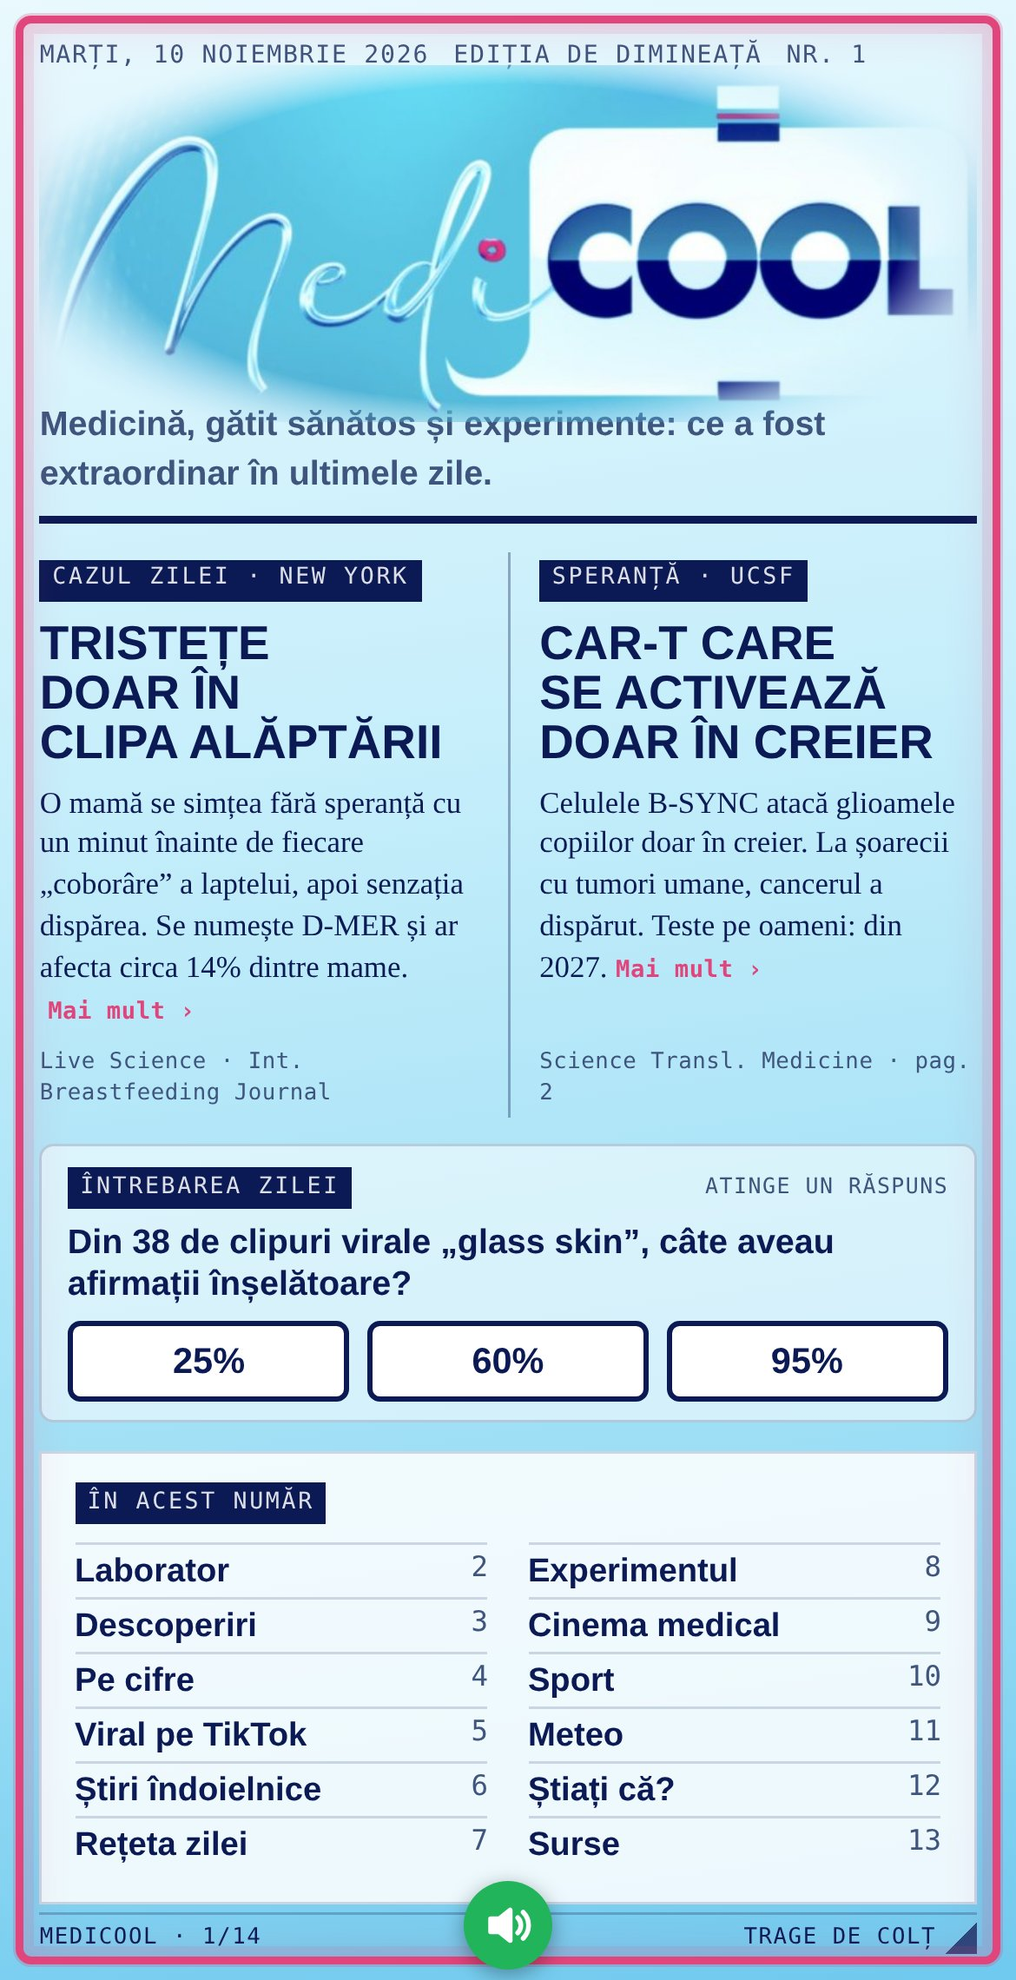
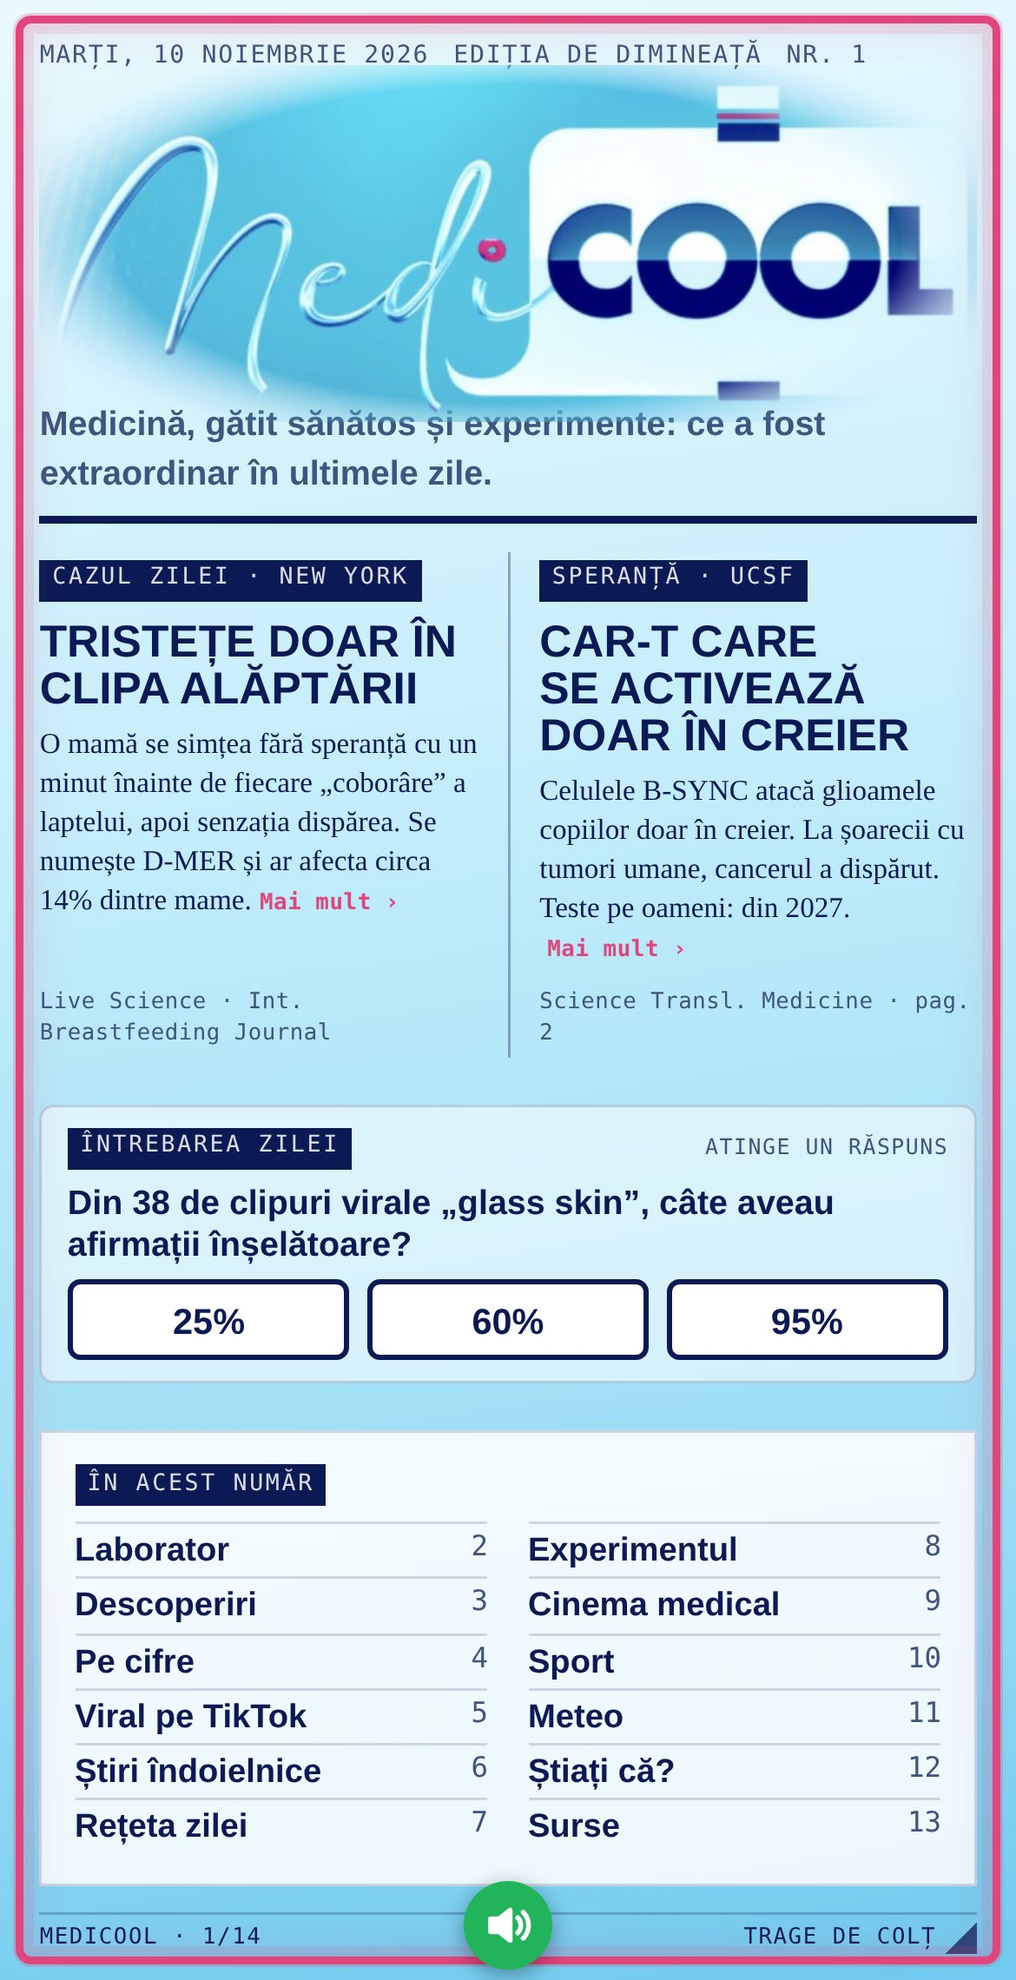
Pagini pline: text în plus din surse, fără spațiu gol jos
Claude-Session: https://claude.ai/code/session_01FzDV5b68UMWScboPR3TvHi

Changed region(s): [[0.0308, 0.3114, 0.9846, 0.9654], [0.5231, 0.7785, 0.9538, 0.9654]]

diff --git a/2026-11-10/ziar.html b/2026-11-10/ziar.html
@@ -24,7 +24,7 @@ body{background:#C6EEFB;color:var(--ink);font-family:var(--font-body);overflow:h
 #book{width:100%;height:100%}
 .page{background:linear-gradient(172deg,#E9F9FE 0%,#C6EEFB 38%,#97DCF4 78%,#6FC9EE 100%);font-size:var(--fs);line-height:1.42;overflow:hidden}
 .pg{height:100%;display:flex;flex-direction:column;gap:.75em;padding:1.1em 1.1em .7em}
-.pg>.grow{flex:1;min-height:0;display:flex;flex-direction:column;gap:.75em}
+.pg>.grow{flex:1;min-height:0;display:flex;flex-direction:column;gap:.75em;justify-content:space-between}
 
 /* masthead */
 .mast{border-bottom:3px solid var(--ink);padding-bottom:.5em;display:flex;flex-direction:column;gap:.35em}
@@ -144,8 +144,8 @@ p{margin:0}
 .frontcols{display:grid;grid-template-columns:1fr 1fr;gap:0;flex:none}
 .frontcols .fcol{display:flex;flex-direction:column;gap:.45em;padding:.2em .8em .2em 0}
 .frontcols .fcol+.fcol{padding:.2em 0 .2em .8em;border-left:1px solid rgba(11,26,85,.35)}
-.frontcols h2{font-family:var(--font-display);font-stretch:80%;font-weight:800;font-size:1.32em;line-height:1.05;margin:0;color:var(--ink);text-transform:uppercase}
-.frontcols p{font-size:.84em;line-height:1.36;margin:0;color:var(--ink)}
+.frontcols h2{font-family:var(--font-display);font-stretch:80%;font-weight:800;font-size:1.24em;line-height:1.05;margin:0;color:var(--ink);text-transform:uppercase}
+.frontcols p{font-size:.8em;line-height:1.36;margin:0;color:var(--ink)}
 .frontcols .src{margin-top:auto;color:var(--muted)}
 .index li{cursor:pointer}.index li *{pointer-events:none}
 .page.cover:after{content:"";position:absolute;inset:6px;border:3px solid #E0457B;border-radius:6px;box-shadow:0 0 0 1px rgba(224,69,123,.25),inset 0 0 0 4px rgba(224,69,123,.12),inset 0 0 18px rgba(224,69,123,.18);pointer-events:none;z-index:5}
@@ -265,15 +265,15 @@ subiecte_recente: 2026-11-09 copil de piatră Somaliland; gel smalț Nottingham;
   <div class="grow">
     <article class="tile mark">
       <div class="hd"><div><span class="kicker">Oncologie pediatrică · UCSF</span><h2>Celule CAR-T care se „trezesc” doar în creier</h2></div><a class="vthumb" href="https://www.youtube.com/watch?v=NZj2Y4o8jog" target="_blank" rel="noopener"><span class="play"></span><span class="plat">▶ UCSF</span></a></div>
-      <p>Glioamele difuze de linie mediană ucid copiii de obicei în mai puțin de un an. Celulele B-SYNC recunosc o proteină din creier și abia acolo își activează arma contra tumorii. La două modele de șoareci cu tumori umane, cancerul a dispărut la toate animalele.</p>
-      <p class="note" style="color:var(--mark-fg)">Doar pe șoareci. Primele teste pe oameni ar putea începe în aprilie 2027.<a class="more" href="https://www.sciencedaily.com/releases/2026/11/261104084009.htm" target="_blank" rel="noopener">Mai mult ›</a></p>
+      <p>Glioamele difuze de linie mediană ucid copiii de obicei în mai puțin de un an. Celulele B-SYNC recunosc o proteină din creier și abia acolo își activează arma contra tumorii. La două modele de șoareci cu tumori umane, cancerul a dispărut la toate animalele. După șapte săptămâni, șoarecii tratați au respins o nouă doză de celule canceroase.</p>
+      <p class="note" style="color:var(--mark-fg)">Doar pe șoareci. Echipa lui Hideho Okada și Wendell Lim pregătește primele teste pe oameni, din aprilie 2027, cu celulele T ale pacienților.<a class="more" href="https://www.sciencedaily.com/releases/2026/11/261104084009.htm" target="_blank" rel="noopener">Mai mult ›</a></p>
       <span class="src">ScienceDaily · Science Translational Medicine</span>
     </article>
     <article class="tile">
       <span class="kicker">Chimie · RIKEN, Japonia</span>
       <h2>Tumora își fabrică singură medicamentul</h2>
-      <p>Celulele canceroase eliberează mult monoxid de carbon. Un catalizator cu paladiu, ascuns într-o proteină din sânge, folosește acest gaz ca să producă în interiorul lor un compus anticancer. În celulele sănătoase, reacția nu a avut loc.</p>
-      <p class="note">Testat doar pe celule în laborator, 48 de ore. Urmează studiile pe animale.<a class="more" href="https://www.sciencedaily.com/releases/2026/11/261101010552.htm" target="_blank" rel="noopener">Mai mult ›</a></p>
+      <p>Celulele canceroase eliberează mult monoxid de carbon. Un catalizator cu paladiu, ascuns într-o proteină din sânge, folosește acest gaz ca să producă în interiorul lor un compus anticancer. În celulele sănătoase, reacția nu a avut loc. Compusul format, fenantridinona, are o variantă toxică folosită deja în unele medicamente anticancer. În sânge, monoxidul de carbon e legat de hemoglobină, așa că reacția nu pornește acolo.</p>
+      <p class="note">Testat doar pe celule în laborator, 48 de ore. Echipa lui Katsunori Tanaka trece acum la studii pe animale.<a class="more" href="https://www.sciencedaily.com/releases/2026/11/261101010552.htm" target="_blank" rel="noopener">Mai mult ›</a></p>
       <span class="src">ScienceDaily · Nature Communications</span>
     </article>
   </div>
@@ -303,12 +303,12 @@ subiecte_recente: 2026-11-09 copil de piatră Somaliland; gel smalț Nottingham;
       <div class="tile mark"><span class="kicker">Oase și creier</span><div class="stat">−24%</div><div class="statlabel">risc de demență la cei cu bifosfonați (ex. alendronat), față de alte medicamente pentru osteoporoză. 120.000 de vârstnici, Hong Kong. <a class="more" href="https://www.sciencedaily.com/releases/2026/11/261108233037.htm" target="_blank" rel="noopener">Mai mult ›</a></div><span class="src">Alzheimer's &amp; Dementia</span></div>
       <div class="tile teal"><span class="kicker">Testosteron</span><div class="stat">+18%</div><div class="statlabel">risc de deces prin cancer la bărbații cu cel mai scăzut testosteron. 26.000 de bărbați din 11 studii. <a class="more" href="https://www.sciencedaily.com/releases/2026/11/261104012301.htm" target="_blank" rel="noopener">Mai mult ›</a></div><span class="src">Lancet Healthy Longevity</span></div>
     </div>
-    <p class="note" style="color:var(--ink)">Ambele sunt <b>asocieri, nu dovezi</b>. Autorii spun clar: nu există dovezi că testosteronul luat suplimentar ar scădea riscul de cancer.</p>
+    <p class="note" style="color:var(--ink)">Ambele sunt <b>asocieri, nu dovezi</b>. Autorii spun clar: nu există dovezi că testosteronul luat suplimentar ar scădea riscul de cancer. La bifosfonați, cercetătorii din Hong Kong cer un studiu clinic înainte de orice recomandare.</p>
     <a class="vid sm" href="https://www.youtube.com/watch?v=GRxb6-CyPxM" target="_blank" rel="noopener"><span class="play"></span><span class="cap"><span class="plat">▶ YouTube · Mayo Clinic</span><br>Cum afectează testosteronul scăzut sănătatea bărbaților</span></a>
     <article class="tile">
       <span class="kicker">Copii · USC</span>
       <h2>Ultraprocesatele și „butonul” recompensei</h2>
-      <p style="font-size:.9em">La 46 de copii de 7–10 ani, cei care mâncau mai multe ultraprocesate aveau o reacție mai puternică a creierului la imagini cu mâncare. Reacția a prezis o creștere mai mare a grăsimii corporale într-un an. Studiu mic, observațional.<a class="more" href="https://www.sciencedaily.com/releases/2026/11/261101010549.htm" target="_blank" rel="noopener">Mai mult ›</a></p>
+      <p style="font-size:.9em">La 46 de copii de 7–10 ani, cei care mâncau mai multe ultraprocesate aveau o reacție mai puternică a creierului la imagini cu mâncare. Reacția a prezis o creștere mai mare a grăsimii corporale într-un an. Zona implicată e striatul dorsal, legat de recompensă și motivație. Toți copiii aveau greutate normală la început. Studiu mic, observațional; urmează unul în care se schimbă dieta.<a class="more" href="https://www.sciencedaily.com/releases/2026/11/261101010549.htm" target="_blank" rel="noopener">Mai mult ›</a></p>
       <span class="src">ScienceDaily · JAMA Network Open</span>
     </article>
   </div>
@@ -346,7 +346,7 @@ subiecte_recente: 2026-11-09 copil de piatră Somaliland; gel smalț Nottingham;
   <h1 class="section">Știri îndoielnice</h1>
   <div class="grow">
     <p style="font-size:.86em;margin-top:-.2em">Obiceiuri, tratamente și povești care circulă ca adevăruri, dar n-au dovezi științifice serioase. <b>Nu le încercați acasă.</b></p>
-<div class="tile dub"><a class="vthumb" href="https://www.youtube.com/watch?v=AJI_kn_-jGE" target="_blank" rel="noopener"><span class="play"></span><span class="plat">▶ YouTube</span></a><div><h3>Plasturii „detox” pentru tălpi</h3><p>Se înnegresc peste noapte și ar „scoate toxinele”. Mayo Clinic: nicio dovadă de încredere. Corpul se curăță singur, prin ficat și rinichi.<a class="more" href="https://www.mayoclinic.org/healthy-living/consumer-health/expert-answers/detox-foot-pads/faq-20057807" target="_blank" rel="noopener">Mai mult ›</a></p></div><span class="stamp">Fals</span></div><div class="tile dub"><a class="vthumb" href="https://www.youtube.com/watch?v=qq8hfhBKag4" target="_blank" rel="noopener"><span class="play"></span><span class="plat">▶ YouTube</span></a><div><h3>Apa alcalină „echilibrează pH-ul”</h3><p>Sucul gastric o neutralizează aproape imediat. Beneficiile promise nu au fost testate corect, spune Cleveland Clinic. Hidratează ca apa obișnuită.<a class="more" href="https://health.clevelandclinic.org/alkaline-water-dont-believe-the-marketing-hype" target="_blank" rel="noopener">Mai mult ›</a></p></div><span class="stamp">Exagerat</span></div><div class="tile dub"><a class="vthumb" href="https://www.youtube.com/watch?v=T58YRgdrljM" target="_blank" rel="noopener"><span class="play"></span><span class="plat">▶ YouTube</span></a><div><h3>Argintul coloidal, „antibiotic natural”</h3><p>Nu are niciun rol în corp. Poate colora pielea gri-albăstrui, de obicei pentru totdeauna (argirie), și încurcă unele medicamente.<a class="more" href="https://www.nccih.nih.gov/health/colloidal-silver" target="_blank" rel="noopener">Mai mult ›</a></p></div><span class="stamp">Periculos</span></div><div class="tile dub"><a class="vthumb" href="https://www.youtube.com/watch?v=0ZozqP359UY" target="_blank" rel="noopener"><span class="play"></span><span class="plat">▶ YouTube</span></a><div><h3>Heroina, sirop de tuse în 1898</h3><p>Bayer a lansat-o pentru tuse și răceală. A fost lăudată ca înlocuitor „fără dependență” al morfinei. Nu era deloc așa.<a class="more" href="https://atlasobscura.com/articles/narcotics-in-medicine" target="_blank" rel="noopener">Mai mult ›</a></p></div><span class="stamp dead">Mortal · 1898</span></div>
+<div class="tile dub"><a class="vthumb" href="https://www.youtube.com/watch?v=AJI_kn_-jGE" target="_blank" rel="noopener"><span class="play"></span><span class="plat">▶ YouTube</span></a><div><h3>Plasturii „detox” pentru tălpi</h3><p>Se înnegresc peste noapte și ar „scoate toxinele”. Mayo Clinic: nicio dovadă de încredere. Corpul se curăță singur, prin ficat și rinichi. Culoarea vine de la oțetul de lemn din plasture, care se închide la contactul cu transpirația.<a class="more" href="https://www.mayoclinic.org/healthy-living/consumer-health/expert-answers/detox-foot-pads/faq-20057807" target="_blank" rel="noopener">Mai mult ›</a></p></div><span class="stamp">Fals</span></div><div class="tile dub"><a class="vthumb" href="https://www.youtube.com/watch?v=qq8hfhBKag4" target="_blank" rel="noopener"><span class="play"></span><span class="plat">▶ YouTube</span></a><div><h3>Apa alcalină „echilibrează pH-ul”</h3><p>Sucul gastric o neutralizează aproape imediat. Beneficiile promise nu au fost testate corect, spune Cleveland Clinic. Hidratează ca apa obișnuită. pH-ul sângelui rămâne între 7,35 și 7,45, ținut de plămâni și rinichi, orice ai bea.<a class="more" href="https://health.clevelandclinic.org/alkaline-water-dont-believe-the-marketing-hype" target="_blank" rel="noopener">Mai mult ›</a></p></div><span class="stamp">Exagerat</span></div><div class="tile dub"><a class="vthumb" href="https://www.youtube.com/watch?v=T58YRgdrljM" target="_blank" rel="noopener"><span class="play"></span><span class="plat">▶ YouTube</span></a><div><h3>Argintul coloidal, „antibiotic natural”</h3><p>Nu are niciun rol în corp. Poate colora pielea gri-albăstrui, de obicei pentru totdeauna (argirie), și încurcă unele medicamente. Din 1999, FDA consideră că niciun produs cu argint coloidal nu e sigur și eficient.<a class="more" href="https://www.nccih.nih.gov/health/colloidal-silver" target="_blank" rel="noopener">Mai mult ›</a></p></div><span class="stamp">Periculos</span></div><div class="tile dub"><a class="vthumb" href="https://www.youtube.com/watch?v=0ZozqP359UY" target="_blank" rel="noopener"><span class="play"></span><span class="plat">▶ YouTube</span></a><div><h3>Heroina, sirop de tuse în 1898</h3><p>Bayer a lansat-o pentru tuse și răceală. A fost lăudată ca înlocuitor „fără dependență” al morfinei. Nu era deloc așa. Bayer a oprit producția abia în 1913, după valul de dependențe.<a class="more" href="https://atlasobscura.com/articles/narcotics-in-medicine" target="_blank" rel="noopener">Mai mult ›</a></p></div><span class="stamp dead">Mortal · 1898</span></div>
   </div>
   <div class="foot"><span>Medicool · 6/14</span><span class="turn">Trage de colț <i></i></span></div>
 </div></div>
@@ -377,6 +377,7 @@ subiecte_recente: 2026-11-09 copil de piatră Somaliland; gel smalț Nottingham;
         <li>Pui spanacul și ceapa feliată, deasupra legumele calde, feta, semințele și dressingul.</li>
       </ol>
     </div>
+    <div class="tile"><span class="kicker">De ce merge</span><p style="font-size:.86em;margin:.3em 0 0">Năutul aduce proteine și fibre, dovleacul beta-caroten, semințele magneziu și zinc. Ține două zile la frigider.</p></div>
     <a class="vid sm" href="https://www.youtube.com/watch?v=_H5PqGHaSN0" target="_blank" rel="noopener"><span class="play"></span><span class="cap"><span class="plat">▶ YouTube · rețetă</span><br>Salată de năut și dovleac copt, bogată în fibre</span></a>
   </div>
   <div class="foot"><span>Medicool · 7/14</span><span class="turn">Trage de colț <i></i></span></div>
@@ -436,7 +437,8 @@ subiecte_recente: 2026-11-09 copil de piatră Somaliland; gel smalț Nottingham;
         <li><b>Primul film românesc nominalizat la Oscar:</b> la documentar și la film internațional; a luat și Premiul Filmului European.</li>
         <li><b>Arată cum ucid infecțiile din spital:</b> mulți răniți n-au murit din cauza arsurilor, ci a bacteriilor, iar problema era cunoscută de ani.</li>
         <li><b>Dezinfectanții Hexi Pharma:</b> furnizorul își falsificase documentele; s-a deschis anchetă penală.</li>
-        <li><b>Presa ca sistem imunitar:</b> protestele au dus la demisia ministrului Sănătății, iar filmul e azi studiu de caz despre corupție în sănătate. <a class="more" href="https://en.wikipedia.org/wiki/Collective_(2019_film)" target="_blank" rel="noopener">Mai mult ›</a></li>
+        <li><b>Premii:</b> premiera la Veneția (2019), Premiul Academiei Europene de Film pentru documentar, nominalizare BAFTA și premiul Peabody.</li>
+        <li><b>Presa ca sistem imunitar:</b> protestele de după incendiu au dus la demisia Guvernului, iar filmul e azi studiu de caz despre corupție în sănătate. <a class="more" href="https://en.wikipedia.org/wiki/Collective_(2019_film)" target="_blank" rel="noopener">Mai mult ›</a></li>
       </ul>
     </article>
   </div>
@@ -490,6 +492,7 @@ subiecte_recente: 2026-11-09 copil de piatră Somaliland; gel smalț Nottingham;
         <li><i class="m">Viroze</i><span><b>Haine ude, frig, aglomerație:</b> spălatul mâinilor, aerisirea și vaccinul antigripal, mai ales peste 65 de ani.</span></li>
       </ul>
     </article>
+    <p class="note" style="color:var(--ink)"><b>Sfatul zilei:</b> îmbracă-te în straturi. Dimineața e aproape de 0°C în multe orașe, după-amiaza urcă spre 10–13°C.</p>
     <p class="note" style="color:var(--ink)"><b>Nicio atenționare meteo anunțată pentru azi.</b> Joi și vineri se încălzește spre 18–21°C în sud și vest, apoi răcire bruscă pe 14–16 noiembrie. Salturile mari îi afectează pe meteosensibili.<a class="more" href="https://observatornews.ro/vremea/urmeaza-cateva-zile-cu-temperaturi-de-pana-la-20c-apoi-vine-iar-frigul-prognoza-meteo-9-22-noiembrie-2026-671743.html" target="_blank" rel="noopener">Mai mult ›</a></p>
     <span class="src">Orașe: vremeain.ro (Timișoara: județul Timiș) · Sfaturi generale, nu recomandări medicale individuale.</span>
   </div>
@@ -501,11 +504,11 @@ subiecte_recente: 2026-11-09 copil de piatră Somaliland; gel smalț Nottingham;
[1 lines of base64/hex data omitted]
   <h1 class="section">Știați că?</h1>
   <div class="grow facts5">
-      <article class="tile fact"><span class="fnum">1</span><div><h3>Corneea nu are vase de sânge.</h3><p>Ca să rămână transparentă, își ia oxigenul direct din aer, dizolvat în pelicula de lacrimi. Noaptea, cu ochii închiși, îl primește din vasele pleoapei.<a class="more" href="https://en.wikipedia.org/wiki/Cornea" target="_blank" rel="noopener">Mai mult ›</a></p></div></article>
-      <article class="tile fact"><span class="fnum">2</span><div><h3>Cel mai mic os are 2–3 mm.</h3><p>Scărița, din urechea medie, transmite vibrațiile sunetului spre urechea internă. E cel mai mic și cel mai ușor os din corp.<a class="more" href="https://en.wikipedia.org/wiki/Stapes" target="_blank" rel="noopener">Mai mult ›</a></p></div></article>
-      <article class="tile fact"><span class="fnum">3</span><div><h3>Cel mai mic mușchi are circa 1 mm.</h3><p>Mușchiul scăriței frânează vibrațiile prea puternice și protejează urechea de zgomote mari.<a class="more" href="https://en.wikipedia.org/wiki/Stapedius_muscle" target="_blank" rel="noopener">Mai mult ›</a></p></div></article>
-      <article class="tile fact"><span class="fnum">4</span><div><h3>Scheletul se reface cam la 10 ani.</h3><p>Oasele sunt țesut viu: celule speciale dizolvă osul vechi și construiesc os nou, continuu, toată viața.<a class="more" href="https://news.uams.edu/2023/03/16/bones/" target="_blank" rel="noopener">Mai mult ›</a></p></div></article>
-      <article class="tile fact"><span class="fnum">5</span><div><h3>Inima bate de circa 100.000 de ori pe zi.</h3><p>Pompează în fiecare zi aproximativ 7.500 de litri de sânge. Într-o viață, trece de 2,5 miliarde de bătăi.<a class="more" href="https://www.peacehealth.org/locations/springfield/peacehealth-cardiac-surgery-riverbend-pavilion/how-the-heart-works" target="_blank" rel="noopener">Mai mult ›</a></p></div></article>
+      <article class="tile fact"><span class="fnum">1</span><div><h3>Corneea nu are vase de sânge.</h3><p>Ca să rămână transparentă, își ia oxigenul direct din aer, dizolvat în pelicula de lacrimi. Noaptea îl primește din vasele pleoapei. Tot de aceea transplantul de cornee e respins rar.<a class="more" href="https://en.wikipedia.org/wiki/Cornea" target="_blank" rel="noopener">Mai mult ›</a></p></div></article>
+      <article class="tile fact"><span class="fnum">2</span><div><h3>Cel mai mic os are 2–3 mm.</h3><p>Scărița, din urechea medie, transmite vibrațiile sunetului spre urechea internă. E cel mai mic și cel mai ușor os din corp: cântărește doar câteva miligrame.<a class="more" href="https://en.wikipedia.org/wiki/Stapes" target="_blank" rel="noopener">Mai mult ›</a></p></div></article>
+      <article class="tile fact"><span class="fnum">3</span><div><h3>Cel mai mic mușchi are circa 1 mm.</h3><p>Mușchiul scăriței frânează vibrațiile prea puternice și protejează urechea de zgomote mari. Face parte din reflexul acustic, care se declanșează singur la sunete puternice.<a class="more" href="https://en.wikipedia.org/wiki/Stapedius_muscle" target="_blank" rel="noopener">Mai mult ›</a></p></div></article>
+      <article class="tile fact"><span class="fnum">4</span><div><h3>Scheletul se reface cam la 10 ani.</h3><p>Oasele sunt țesut viu: celule speciale dizolvă osul vechi și construiesc os nou, continuu, toată viața. Masa osoasă atinge maximul în jurul vârstei de 30 de ani; mișcarea o ajută să rămână mare.<a class="more" href="https://news.uams.edu/2023/03/16/bones/" target="_blank" rel="noopener">Mai mult ›</a></p></div></article>
+      <article class="tile fact"><span class="fnum">5</span><div><h3>Inima bate de circa 100.000 de ori pe zi.</h3><p>Pompează în fiecare zi aproximativ 7.500 de litri de sânge. Într-o viață, trece de 2,5 miliarde de bătăi. În repaus, ritmul normal e între 60 și 100 de bătăi pe minut.<a class="more" href="https://www.peacehealth.org/locations/springfield/peacehealth-cardiac-surgery-riverbend-pavilion/how-the-heart-works" target="_blank" rel="noopener">Mai mult ›</a></p></div></article>
   </div>
   <div class="foot"><span>Medicool · 12/14</span><span class="turn">Trage de colț <i></i></span></div>
 </div></div>
